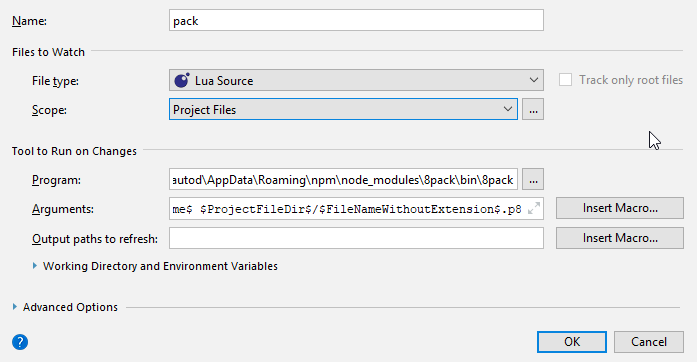
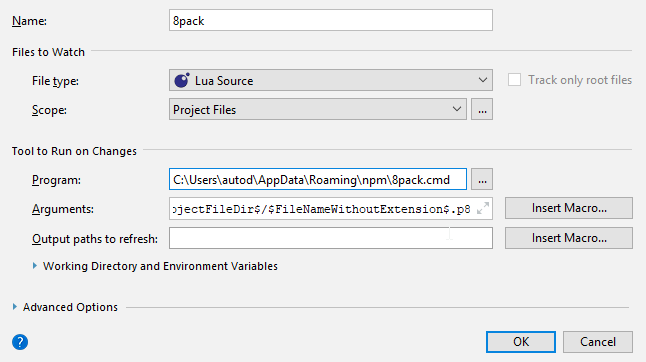
Fix error in phpstorm screenshot

diff --git a/readme.md b/readme.md
@@ -2,7 +2,6 @@
 ====================
 
 ## Utility that injects Lua source into a [PICO-8](https://www.lexaloffle.com/pico-8.php) project. 
----
 
 ## Installation
 ````bash
@@ -28,7 +27,7 @@ Watch */tests/sample.lua* for changes and overwrite to */tests/sample.lua.p8*
 
 Write */tests/sample.lua* source to */tests/foo.p8* using PICO-8 0.1.10c template 
 ````bash
-8pack tests/sample.lua /tests/foo.p8 --template 0.1.10c
+8pack tests/sample.lua /tests/foo.p8 --template 0.1.10c 
 ````
 
 ## JetBrains Watcher Arguments
